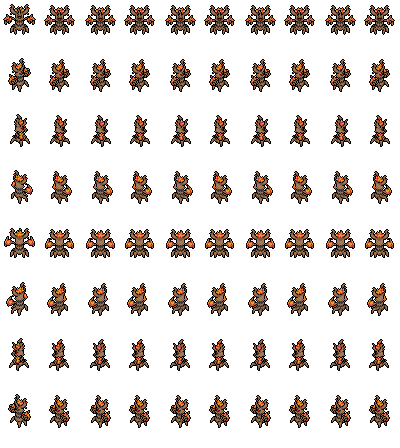
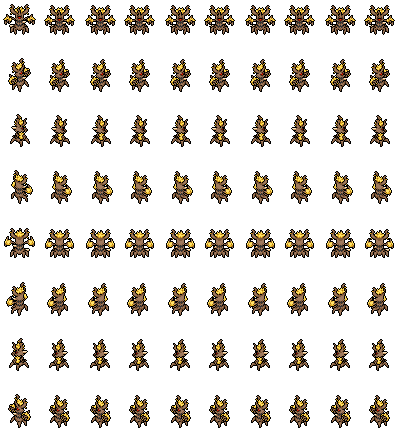
Skin Phantump Outono: Trevenant dourado com cogumelos, longe do shiny
O Trevenant da skin era só as folhas trocadas para vermelho/laranja, quase
igual ao Trevenant shiny (reclamação no Discord). Agora a copa é dourada
(recolor das folhas), com cogumelos de prateleira no tronco em keyframes
das 5 direções, e os brotos do Phantump seguem o dourado.

diff --git a/src/site/changelog.ts b/src/site/changelog.ts
@@ -163,6 +163,18 @@ export const CHANGELOG: readonly ChangelogUpdate[] = [
           },
         ],
       },
+      {
+        title: { pt: 'Boutique', en: 'Boutique', es: 'Boutique', fr: 'Boutique', zh: '精品服飾店' },
+        notes: [
+          {
+            pt: 'A skin Phantump Outono foi redesenhada: as folhas vermelhas do Trevenant eram quase iguais às do Trevenant shiny. Agora a copa é dourada, com cogumelos de outono no tronco, e o Phantump ganhou brotos dourados para combinar. Quem já tem a skin recebe o visual novo.',
+            en: 'The Autumn Phantump skin was redrawn: Trevenant’s red leaves looked almost the same as shiny Trevenant’s. Its canopy is golden now, with autumn mushrooms on the trunk, and Phantump got golden sprouts to match. If you own it, you get the new look.',
+            es: 'La skin Phantump de Otoño se rediseñó: las hojas rojas de Trevenant eran casi iguales a las de Trevenant shiny. Ahora la copa es dorada, con hongos de otoño en el tronco, y Phantump tiene brotes dorados a juego. Si ya la tienes, recibes el nuevo aspecto.',
+            fr: 'Le skin Phantump d’Automne a été redessiné : les feuilles rouges de Trevenant ressemblaient trop à celles de Trevenant chromatique. Son feuillage est maintenant doré, avec des champignons d’automne sur le tronc, et Phantump a des pousses dorées assorties. Si tu l’as déjà, tu as le nouveau look.',
+            zh: '秋季 Phantump 造型重新繪製：Trevenant 的紅葉和異色 Trevenant 幾乎一樣。現在樹冠改為金黃色，樹幹長出秋天的菇類，Phantump 也換上相配的金色嫩芽。已擁有的玩家會直接獲得新外觀。',
+          },
+        ],
+      },
     ],
   },
   {
